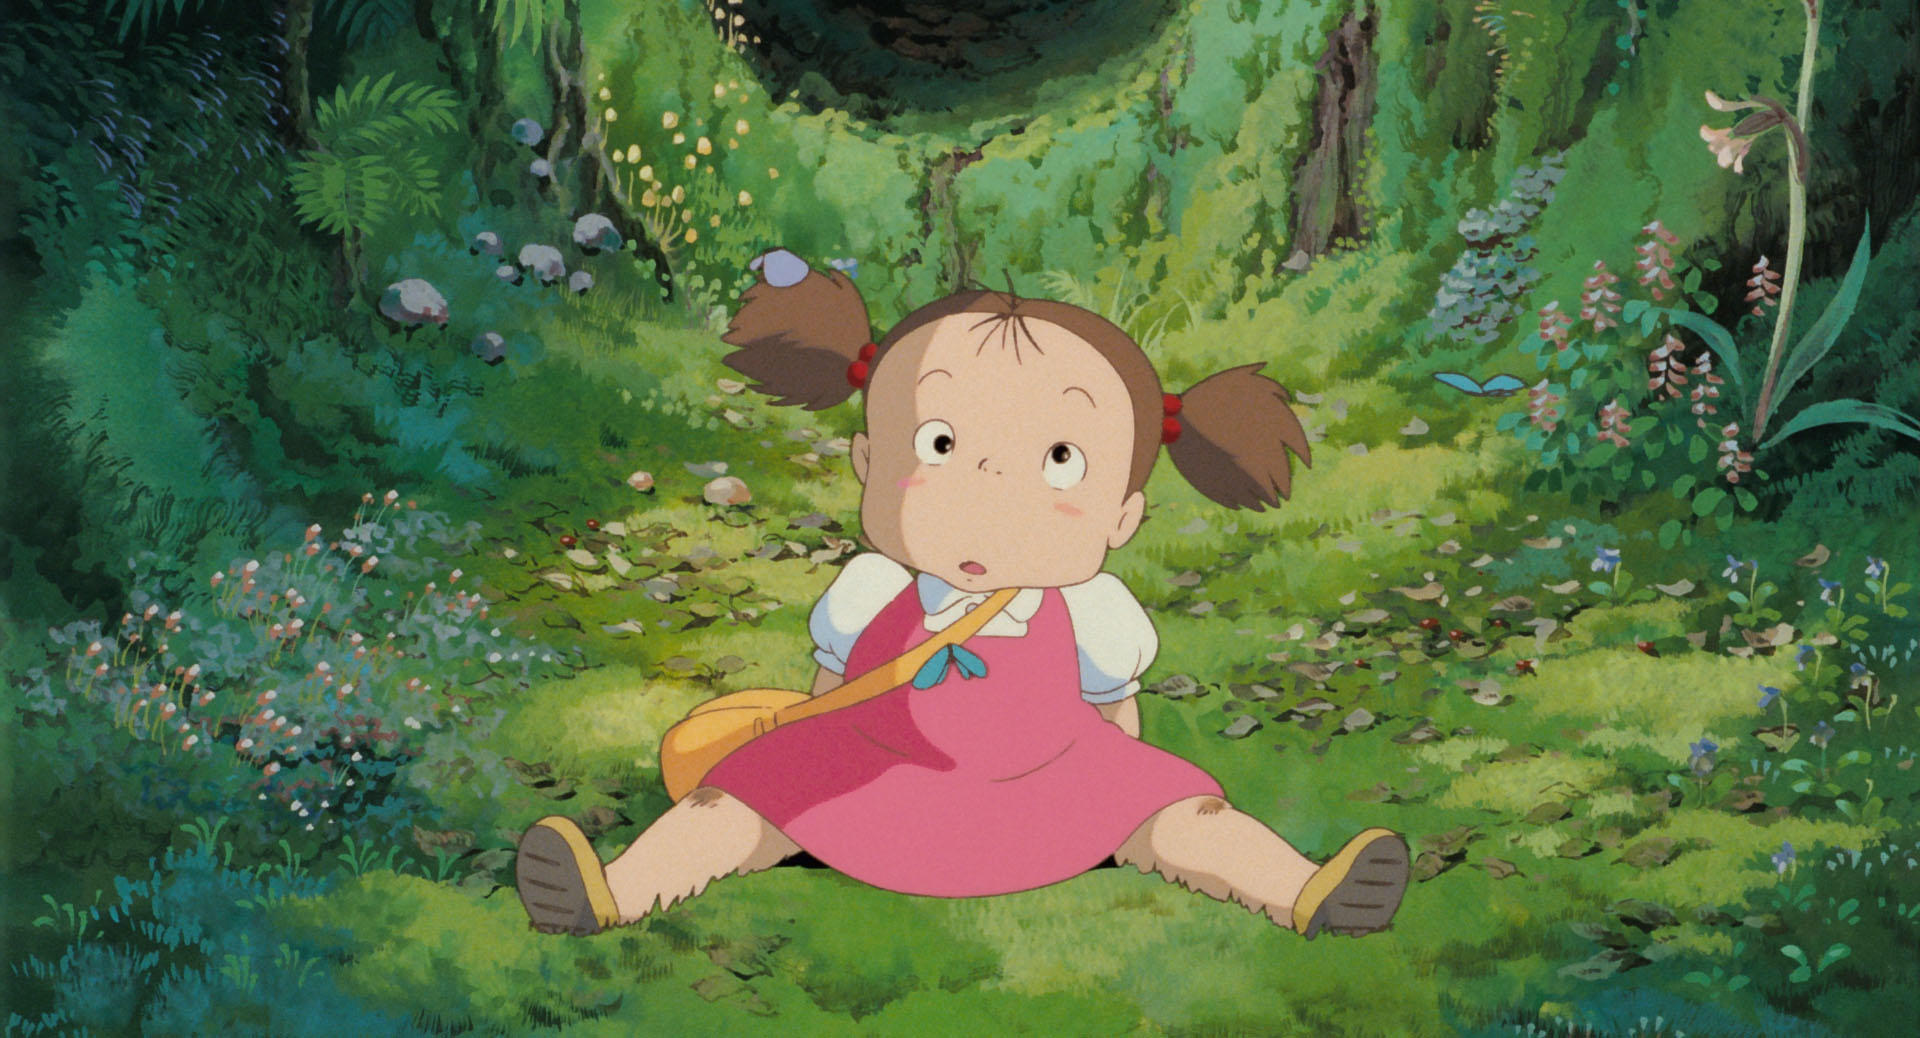
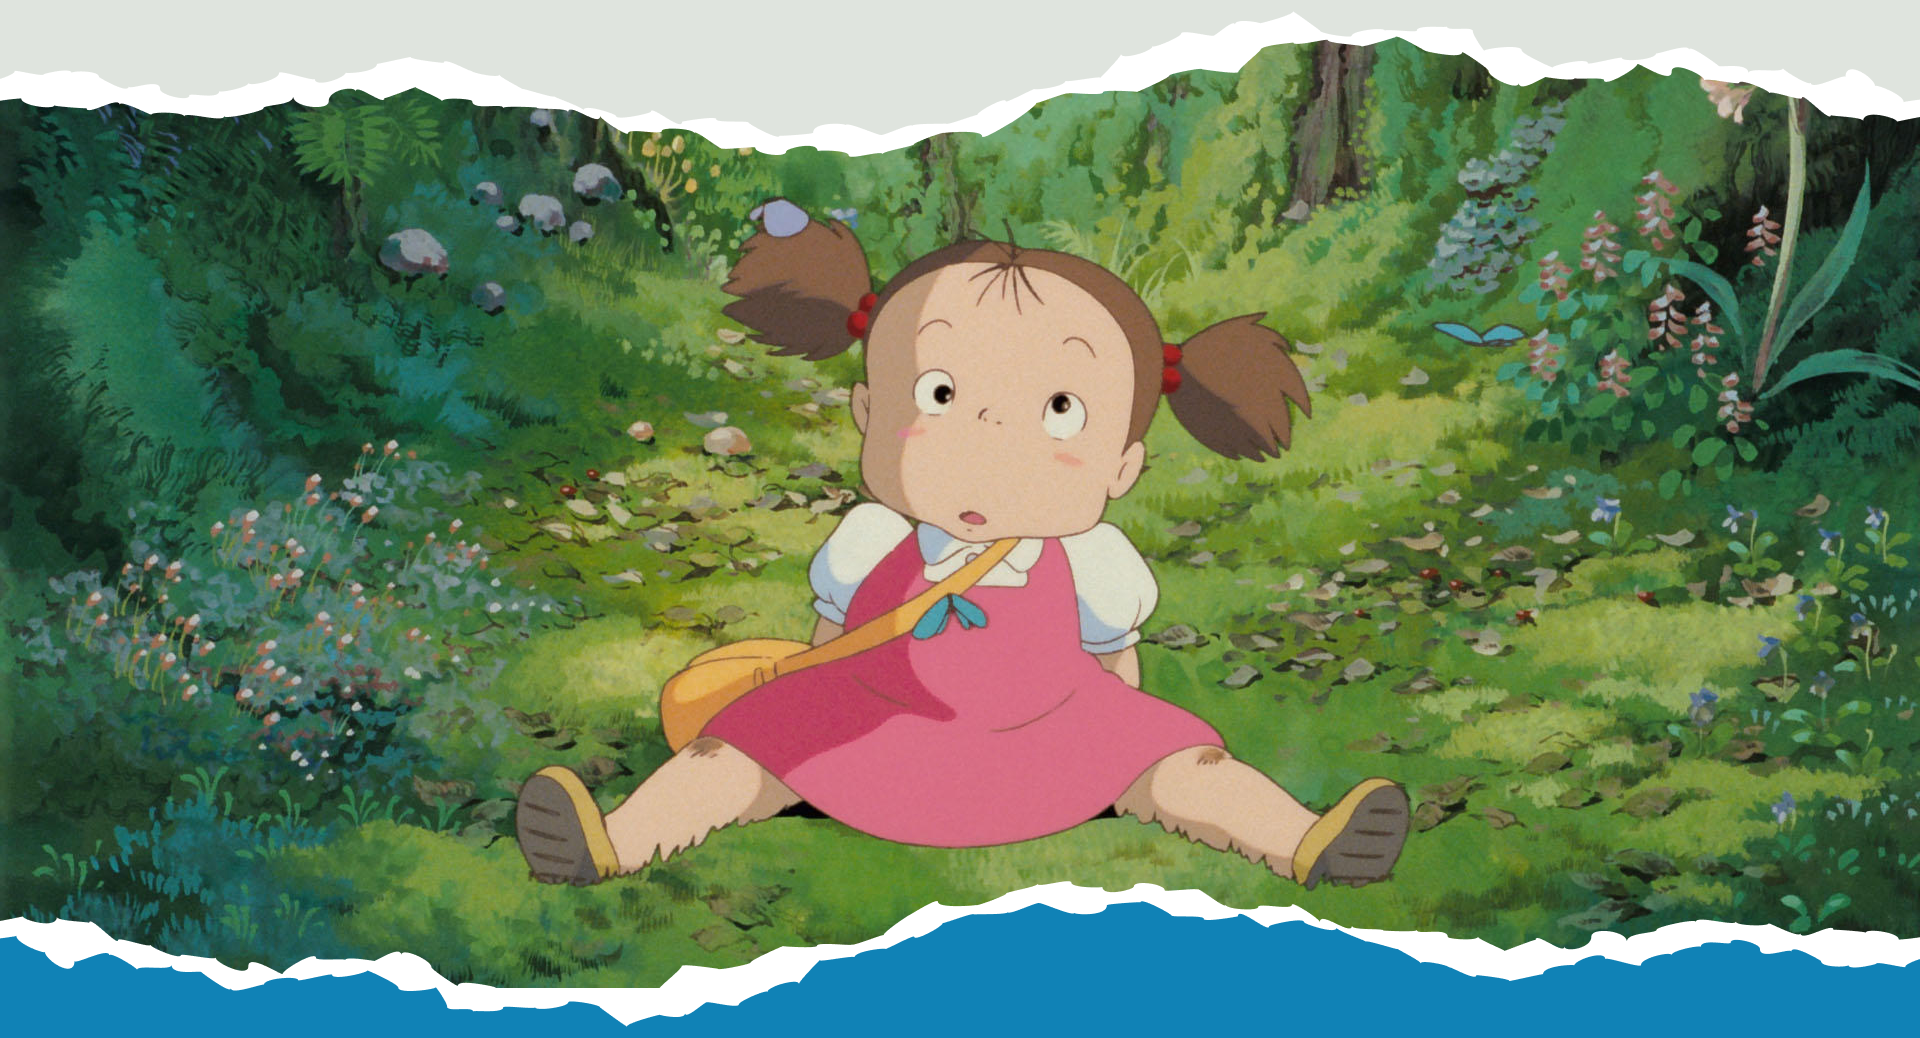
fix: add paper effect to img

diff --git a/README.md b/README.md
@@ -10,7 +10,9 @@ https://color.adobe.com/es/create/image
 https://dev.to/cesareferrari/conditionally-assign-a-css-class-to-a-react-component-jk5
 https://khuang159.medium.com/creating-a-hamburger-menu-in-react-f22e5ae442cb
 
-//https://stackoverflow.com/questions/74969485/onclick-event-for-enter-button-in-react-js
+//https://stackoverflow.com/questions/74969485/onclick-event-for-enter-button-in-react-js#
+
+https://www.youtube.com/watch?v=E5NK61vO_sg
 
 Favicon
 
